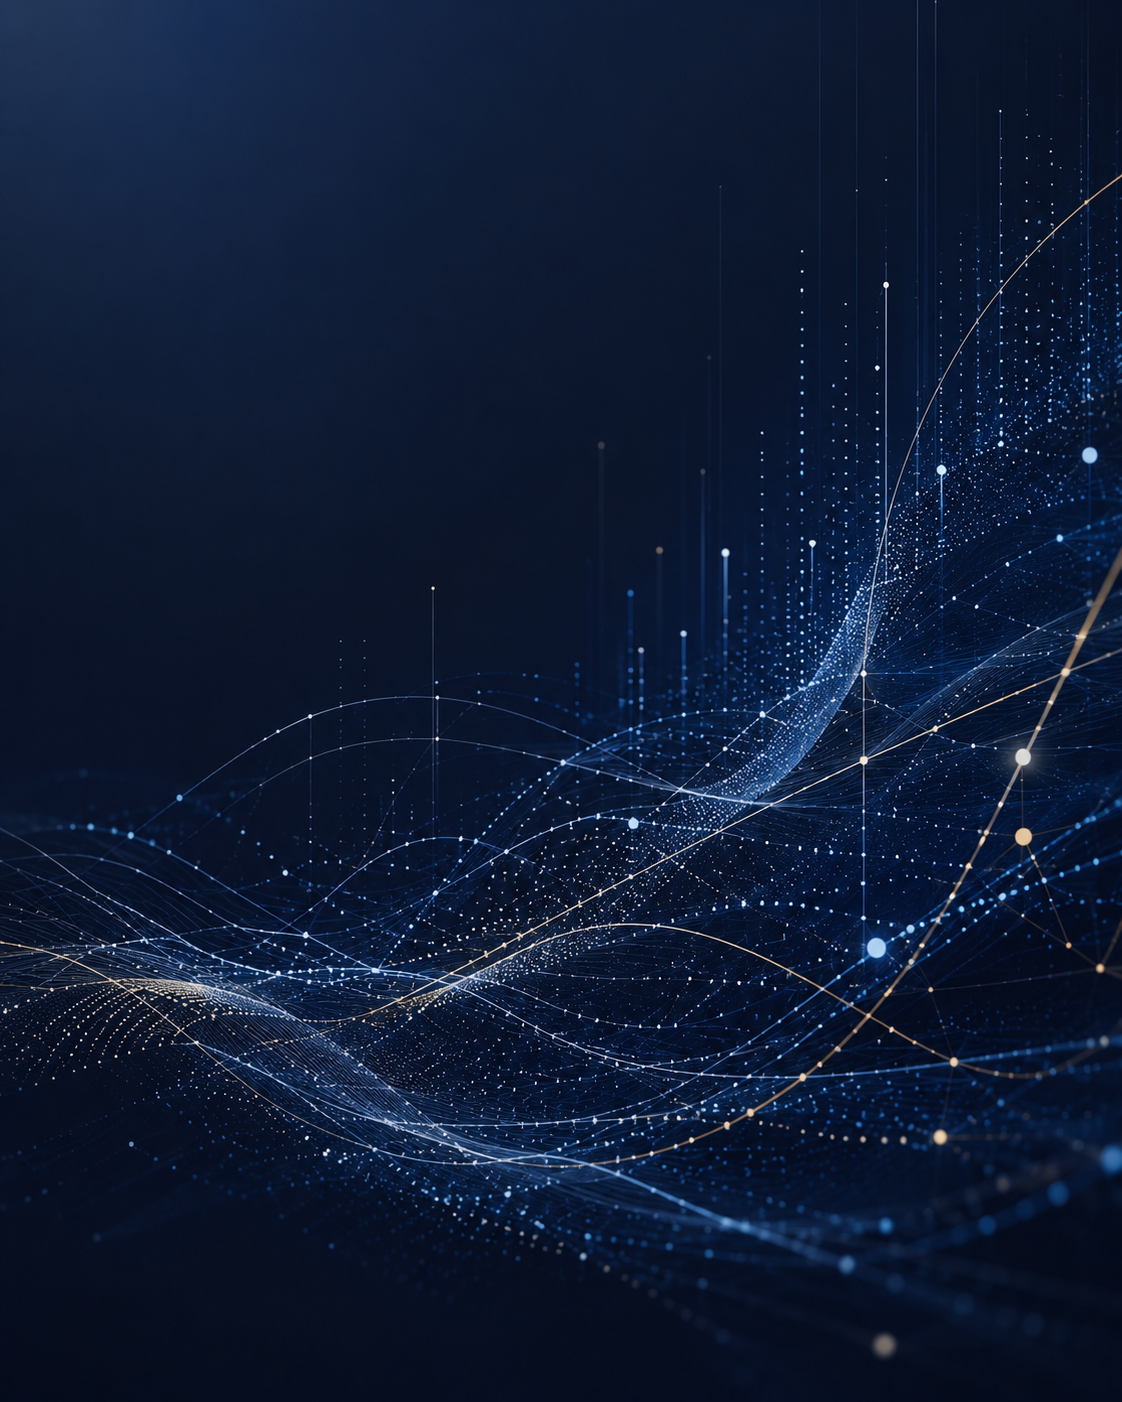
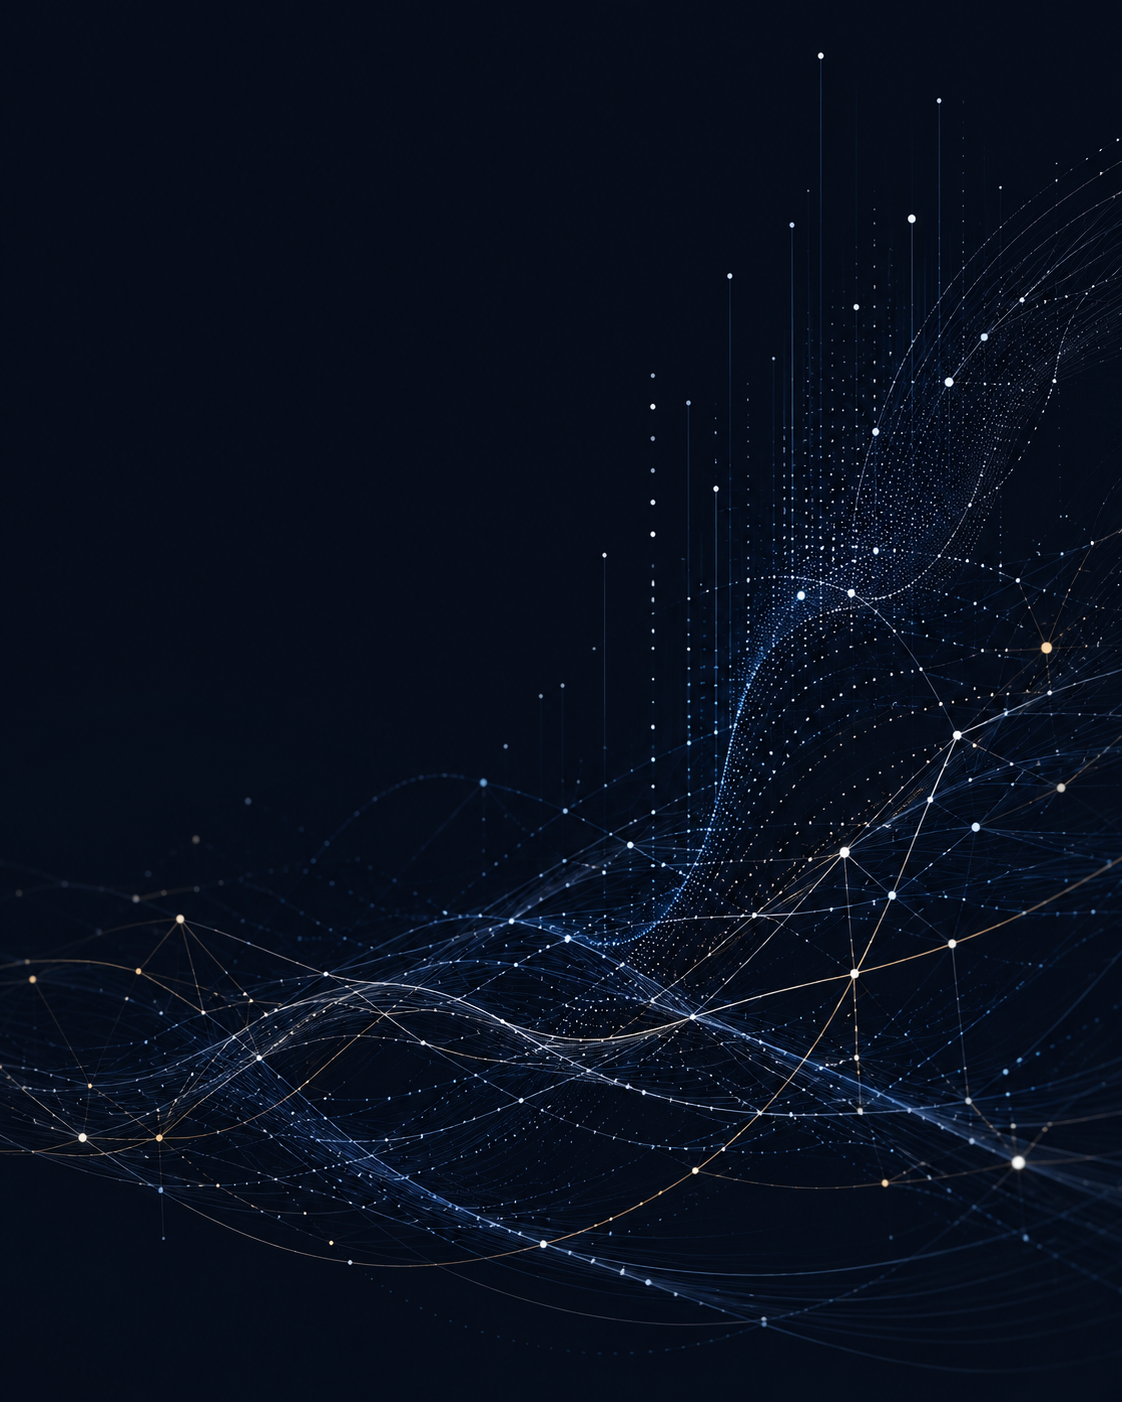
feat: update HeroSection background gradients and hero-visual.png

diff --git a/src/components/HeroSection.vue b/src/components/HeroSection.vue
@@ -27,7 +27,7 @@ const drift = (dur: number, dist = 12) =>
   <section
     id="top"
     class="relative flex h-screen min-h-[680px] w-full items-center overflow-hidden"
-    style="background: linear-gradient(to right, #111C2E 0%, #0C1E36 35%, #091C38 60%);"
+    style="background-color: #070D19;"
   >
     <!-- Immersive placeholder image, anchored right -->
     <div class="absolute inset-y-0 right-0 w-full lg:w-[58%]">
@@ -46,11 +46,11 @@ const drift = (dur: number, dist = 12) =>
       <!-- Fade the image into the shared solid navy field on its left edge -->
       <div
         class="absolute inset-0"
-        style="background: linear-gradient(to right, #091C38 0%, #091C38 12%, rgba(9, 28, 56, 0.7) 32%, rgba(9, 28, 56, 0.3) 55%, transparent 78%);"
+        style="background: linear-gradient(to right, #070D19 0%, #070D19 12%, rgba(7, 13, 25, 0.7) 32%, rgba(7, 13, 25, 0.3) 55%, transparent 78%);"
       />
       <div
         class="absolute inset-0"
-        style="background: linear-gradient(to top, #091C38 0%, transparent 50%, rgba(9, 28, 56, 0.3) 100%);"
+        style="background: linear-gradient(to top, #070D19 0%, transparent 50%, rgba(7, 13, 25, 0.3) 100%);"
       />
     </div>
 
@@ -101,7 +101,7 @@ const drift = (dur: number, dist = 12) =>
 
     <!-- Restrained, high-contrast copy column -->
     <div class="relative z-10 mx-auto w-full max-w-7xl px-6 lg:px-10">
-      <div class="glass w-full max-w-xl rounded-3xl p-8 lg:w-[42%] lg:max-w-none lg:p-10">
+      <div class="w-full max-w-xl lg:w-[42%] lg:max-w-none">
         <Motion v-bind="rise(0.1)">
           <div class="mb-7 inline-flex items-center gap-2.5 rounded-full border border-bone/10 bg-bone/[0.03] px-3.5 py-1.5">
             <Sparkles class="size-3.5 text-champagne" />
